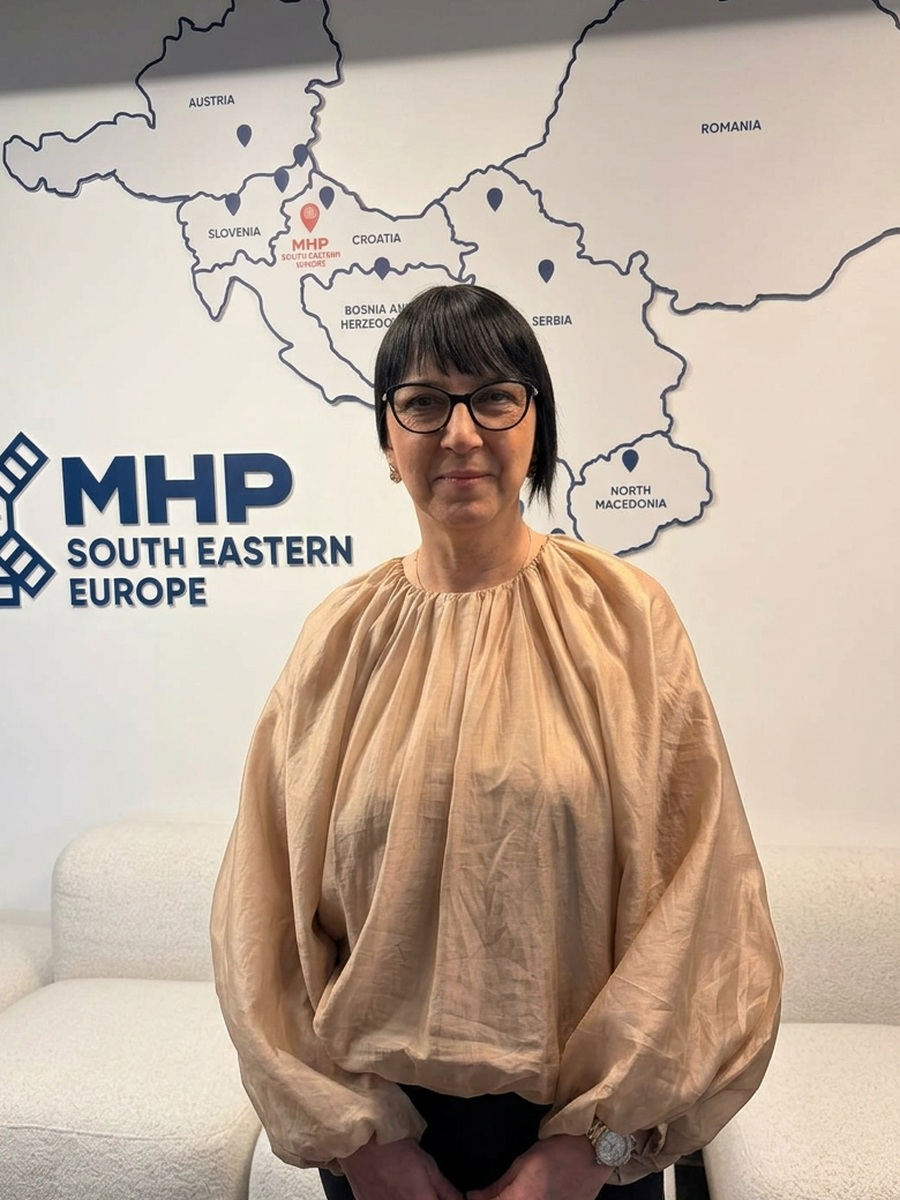
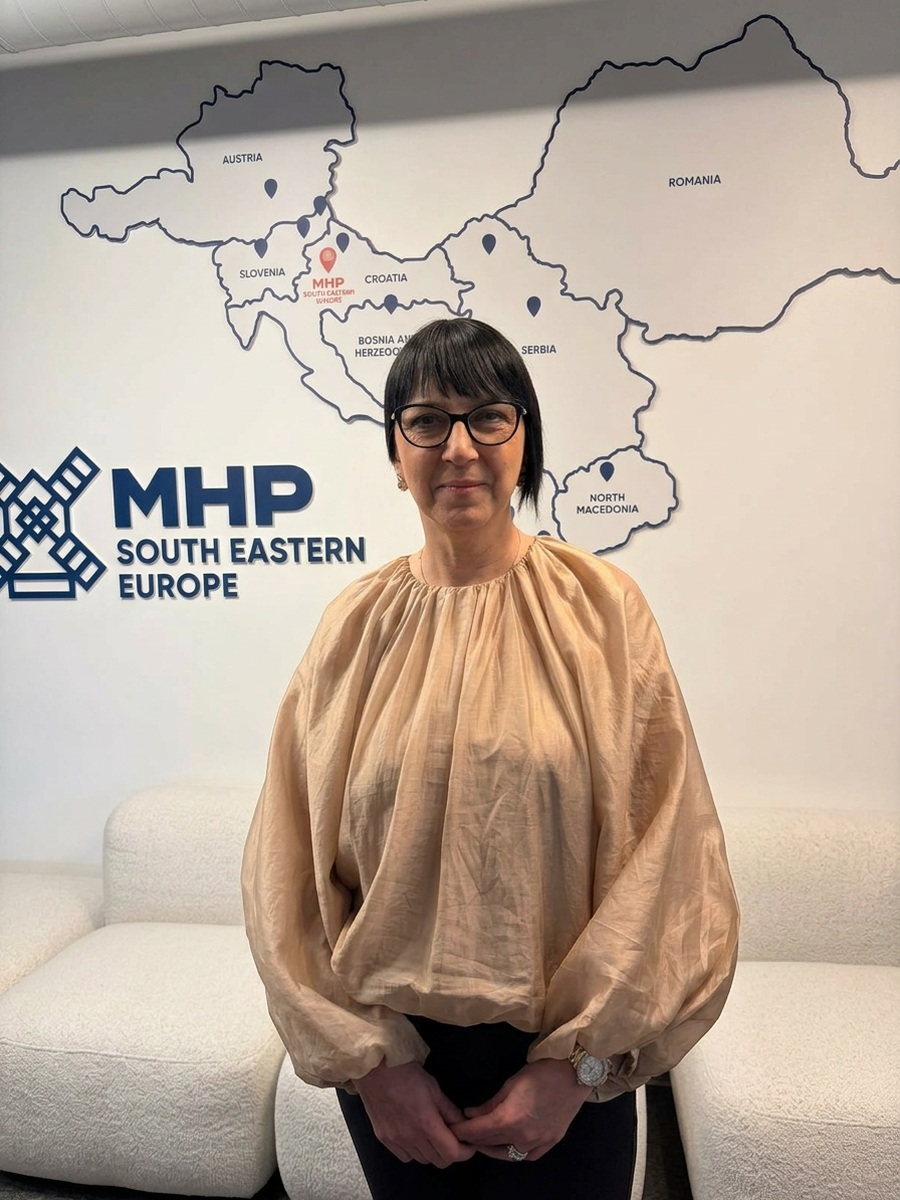
Changes

diff --git a/src/pages/Team.tsx b/src/pages/Team.tsx
@@ -32,14 +32,36 @@ const councilLabels: Record<string, { hr: string; en: string }> = {
   znanstveno_vijece: { hr: "Znanstveno vijeće", en: "Scientific Board" },
 };
 
-const getPhotoSrc = (url: string) => url;
+const normalizedPhotoFiles: Record<string, string> = {
+  "dario-car.jpg": "dario-car.jpg",
+  "dario-perak.jpg": "dario-perak.jpg",
+  "dunja-vorkapic.jpg": "dunja-vorkapic.jpg",
+  "iva-taiber.jpg": "iva-taiber.jpg",
+  "maja-darija-skrljak.jpg": "maja-darija-skrljak.jpg",
+  "marija-felkel.jpg": "marija-felkel.jpg",
+  "marina-klacmer-calopa.jpg": "marina-klacmer-calopa.jpg",
+  "mirela-kotarac.jpg": "mirela-kotarac.jpg",
+  "nina-poloski-vokic.jpg": "nina-poloski-vokic.jpg",
+  "petar-calic.jpg": "petar-calic.jpg",
+  "romina-ivancic.png": "romina-ivancic-macesic.jpg",
+  "romina-ivancic-macesic.jpg": "romina-ivancic-macesic.jpg",
+  "szabolcs-annus.jpg": "szabolcs-annus.jpg",
+  "tome-baric.jpg": "tome-baric.jpg",
+  "vjekoslav-golubovic.jpg": "vjekoslav-golubovic.jpg",
+};
+
+const getPhotoSrc = (url: string) => {
+  const fileName = decodeURIComponent(url.split("/").pop()?.split("?")[0] ?? "");
+  const normalizedFile = normalizedPhotoFiles[fileName];
+  return normalizedFile ? `/team/normalized/${normalizedFile}?v=20260430-no-crop` : url;
+};
 
 const TeamPhoto = ({ src, alt }: { src: string; alt: string }) => (
   <div className="relative aspect-[3/4] w-full overflow-hidden bg-muted">
     <img
       src={src}
       alt={alt}
-      className="block h-full w-full object-contain object-top"
+      className="block h-full w-full object-cover object-top"
     />
   </div>
 );
